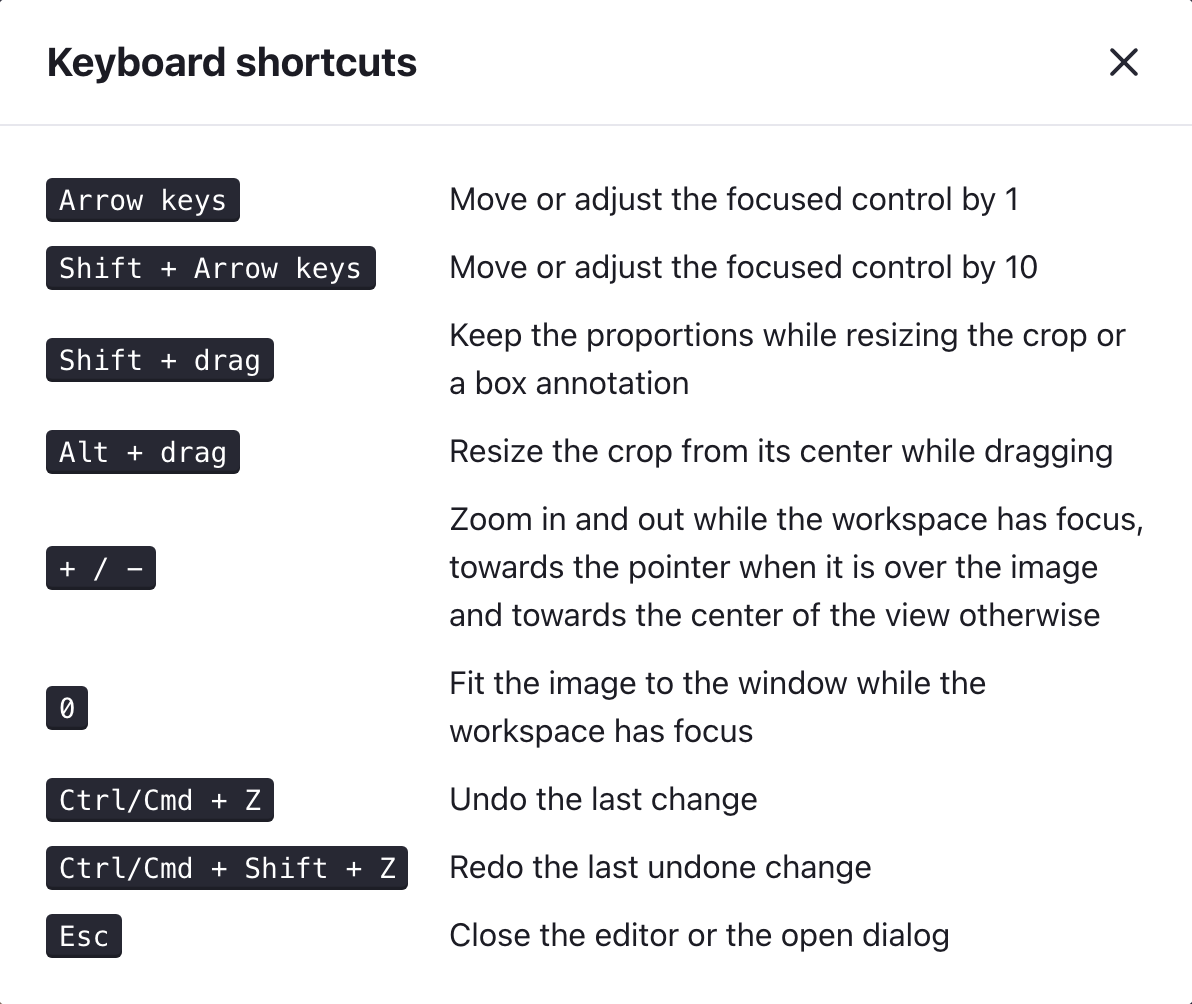
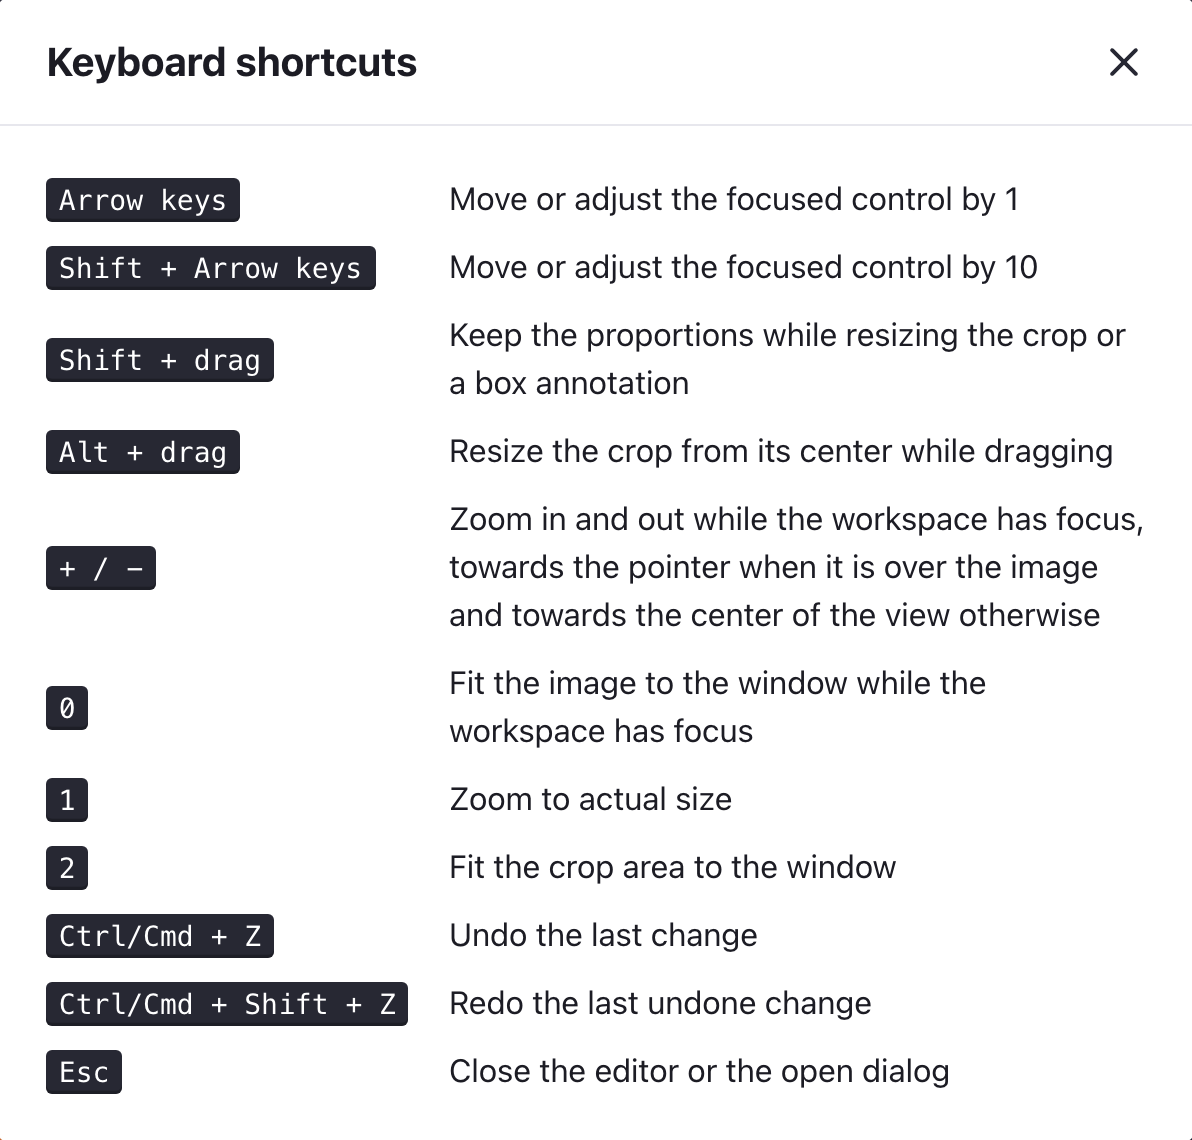
Show the recenter focus, give it a key, and let Escape leave the shortcuts

diff --git a/e2e/view-shortcuts.spec.ts b/e2e/view-shortcuts.spec.ts
@@ -1,0 +1,103 @@
+/**
+ * SPDX-FileCopyrightText: (c) 2026 Liferay, Inc. https://liferay.com
+ * SPDX-License-Identifier: LGPL-2.1-or-later OR LicenseRef-Liferay-DXP-EULA-2.0.0-2023-06
+ */
+
+import {Page, expect, test} from '@playwright/test';
+
+/**
+ * The view keys, which read as the view menu of any editor: fit, actual
+ * size, and the region being worked on. None of them touches the edit, so
+ * none of them belongs in the history.
+ */
+
+function zoomPercent(page: Page): Promise<number> {
+	return page
+		.locator('.editor-stage')
+		.evaluate((stage) =>
+			Math.round(
+				(Number(stage.getAttribute('width')) /
+					Number(stage.getAttribute('viewBox')?.split(' ')[2])) *
+					100
+			)
+		);
+}
+
+async function openEditor(page: Page) {
+	await page.goto('/');
+
+	await page.getByRole('button', {name: 'Edit sample image'}).click();
+
+	await expect(page.locator('.modal')).toHaveCSS('opacity', '1');
+}
+
+test('0 fits, 1 goes to actual size, 2 frames the crop', async ({page}) => {
+	await openEditor(page);
+
+	// A crop smaller than the image, so framing it means something.
+
+	for (const [field, value] of [
+		['width', '500'],
+		['height', '400'],
+		['x', '600'],
+		['y', '500'],
+	]) {
+		await page.locator(`#crop-${field}`).fill(value);
+		await page.locator(`#crop-${field}`).press('Enter');
+	}
+
+	const status = page.getByRole('status');
+
+	await page.locator('.editor-workspace').focus();
+
+	await page.keyboard.press('1');
+
+	expect(await zoomPercent(page)).toBe(100);
+	await expect(status).toContainText('Zoom 100%');
+
+	await page.keyboard.press('0');
+
+	expect(await zoomPercent(page)).toBeLessThan(100);
+
+	// Framing the crop zooms further in than fitting the whole image.
+
+	await page.keyboard.press('2');
+
+	await expect(status).toContainText('Crop centered in the view');
+
+	expect(await zoomPercent(page)).toBeGreaterThan(100);
+
+	// A view change is not an edit: the last undoable thing is still the
+	// crop that was typed above.
+
+	await page.getByRole('button', {name: 'Undo'}).click();
+
+	await expect(status).toContainText('Undo: crop change');
+});
+
+test('the shortcuts dialog closes with Escape', async ({page}) => {
+	await openEditor(page);
+
+	const trigger = page.getByRole('button', {name: 'Keyboard shortcuts'});
+
+	await trigger.click();
+
+	await expect(page.getByRole('dialog')).toHaveCount(2);
+
+	// Settled, not mid-fade: Clay decides which dialog Escape closes from
+	// its own stack, and the stack is only right once the second modal has
+	// finished arriving.
+
+	await expect(page.locator('.modal').last()).toHaveCSS('opacity', '1');
+
+	// The dialog shields the editor behind it from Esc and the undo keys,
+	// which is exactly why it has to answer this one itself.
+
+	await page.keyboard.press('Escape');
+
+	await expect(page.getByRole('dialog')).toHaveCount(1);
+
+	// And the editor is still there, with focus back on the trigger.
+
+	await expect(trigger).toBeFocused();
+});

diff --git a/src/components/ShortcutsDialog.tsx b/src/components/ShortcutsDialog.tsx
@@ -15,6 +15,8 @@ const SHORTCUTS: Array<{descriptionKey: string; keys: string}> = [
 	{descriptionKey: 'shortcut-alt-drag', keys: 'Alt + drag'},
 	{descriptionKey: 'shortcut-zoom', keys: '+ / -'},
 	{descriptionKey: 'shortcut-zoom-fit', keys: '0'},
+	{descriptionKey: 'shortcut-zoom-actual', keys: '1'},
+	{descriptionKey: 'shortcut-center-crop', keys: '2'},
 	{descriptionKey: 'shortcut-undo', keys: 'Ctrl/Cmd + Z'},
 	{descriptionKey: 'shortcut-redo', keys: 'Ctrl/Cmd + Shift + Z'},
 	{descriptionKey: 'shortcut-escape', keys: 'Esc'},
@@ -34,7 +36,21 @@ export function ShortcutsDialog({onOpenChange, open}: Props) {
 
 	return (
 		<ClayModal observer={observer}>
-			<div onKeyDown={(event: React.KeyboardEvent) => event.stopPropagation()}>
+			{/*
+			  * The wrapper keeps the editor's shortcuts, undo above all,
+			  * from reaching the editor behind this dialog. React's
+			  * stopPropagation also stops the native event, so Escape is
+			  * let through on purpose: Clay's own modal hook closes
+			  * whichever dialog is on top of its stack, which is this one,
+			  * and leaves the editor alone.
+			  */}
+			<div
+				onKeyDown={(event: React.KeyboardEvent) => {
+					if (event.key !== 'Escape') {
+						event.stopPropagation();
+					}
+				}}
+			>
 				<ClayModal.Header
 					closeButtonAriaLabel={t('close')}
 					withTitle

diff --git a/src/components/Workspace.tsx b/src/components/Workspace.tsx
@@ -25,6 +25,7 @@ interface Props {
 	onWorkspacePointerMove?: (event: React.PointerEvent) => void;
 	onWorkspaceScroll: () => void;
 	onZoom: (direction: -1 | 1) => void;
+	onZoomActual: () => void;
 	onZoomFit: () => void;
 	selectedOverlayId: string | null;
 	showCrop: boolean;
@@ -49,6 +50,7 @@ export function Workspace({
 	onWorkspacePointerMove,
 	onWorkspaceScroll,
 	onZoom,
+	onZoomActual,
 	onZoomFit,
 	selectedOverlayId,
 	showCrop,
@@ -72,6 +74,18 @@ export function Workspace({
 		else if (event.key === '0') {
 			event.preventDefault();
 			onZoomFit();
+		}
+
+		// The numbers read as the view menu of any editor: fit, actual
+		// size, and then the region being worked on.
+
+		else if (event.key === '1') {
+			event.preventDefault();
+			onZoomActual();
+		}
+		else if (event.key === '2') {
+			event.preventDefault();
+			onCenterCrop();
 		}
 	};
 

diff --git a/src/i18n/en.ts b/src/i18n/en.ts
@@ -184,6 +184,7 @@ export default {
 	shadows: 'Shadows',
 	'shortcut-alt-drag': 'Resize the crop from its center while dragging',
 	'shortcut-arrows': 'Move or adjust the focused control by 1',
+	'shortcut-center-crop': 'Fit the crop area to the window',
 	'shortcut-escape': 'Close the editor or the open dialog',
 	'shortcut-redo': 'Redo the last undone change',
 	'shortcut-shift-arrows': 'Move or adjust the focused control by 10',
@@ -192,6 +193,7 @@ export default {
 	'shortcut-undo': 'Undo the last change',
 	'shortcut-zoom':
 		'Zoom in and out while the workspace has focus, towards the pointer when it is over the image and towards the center of the view otherwise',
+	'shortcut-zoom-actual': 'Zoom to actual size',
 	'shortcut-zoom-fit':
 		'Fit the image to the window while the workspace has focus',
 	size: 'Size',

diff --git a/src/components/CropMarquee.tsx b/src/components/CropMarquee.tsx
@@ -524,6 +524,26 @@ export function CropMarquee({
 						x={crop.x + crop.width / 2 - 9 / zoom}
 						y={crop.y + crop.height / 2 - 9 / zoom}
 					/>
+
+					{/*
+					  * The same ring as every other control on the stage.
+					  * A CSS stroke here would be measured in image units
+					  * and thin out with the zoom: at 55% the old 3px ring
+					  * drew at 1.65px, which is what made a focused
+					  * control look unfocused.
+					  */}
+					{recenterFocused && (
+						<FocusRing
+							bounds={{
+								height: 32 / zoom,
+								width: 32 / zoom,
+								x: crop.x + crop.width / 2 - 16 / zoom,
+								y: crop.y + crop.height / 2 - 16 / zoom,
+							}}
+							shape="circle"
+							zoom={zoom}
+						/>
+					)}
 					</g>
 				)}
 

diff --git a/src/components/Annotations.a11y.test.tsx b/src/components/Annotations.a11y.test.tsx
@@ -52,6 +52,7 @@ function AnnotationHarness() {
 				onSelectOverlay={setSelectedId}
 				onWorkspaceScroll={() => {}}
 				onZoom={() => {}}
+				onZoomActual={() => {}}
 				onZoomFit={() => {}}
 				selectedOverlayId={selectedId}
 				showCrop
@@ -115,6 +116,7 @@ function TextStageHarness() {
 				onSelectOverlay={setSelectedId}
 				onWorkspaceScroll={() => {}}
 				onZoom={() => {}}
+				onZoomActual={() => {}}
 				onZoomFit={() => {}}
 				selectedOverlayId={selectedId}
 				showCrop
@@ -157,6 +159,7 @@ function CroppedHarness() {
 				onSelectOverlay={setSelectedId}
 				onWorkspaceScroll={() => {}}
 				onZoom={() => {}}
+				onZoomActual={() => {}}
 				onZoomFit={() => {}}
 				selectedOverlayId={selectedId}
 				showCrop

diff --git a/src/components/EditorModal.tsx b/src/components/EditorModal.tsx
@@ -309,6 +309,18 @@ export default function EditorModal({config, image, onClose}: Props) {
 		announce(t('zoom-level', Math.round(next * 100)));
 	};
 
+	/**
+	 * Actual size, the way every editor spells it: 100%, no fitting.
+	 */
+	const zoomToActual = () => {
+		autoFitRef.current = false;
+
+		setCropFramed(false);
+		setZoom(1);
+
+		announce(t('zoom-level', 100));
+	};
+
 	const zoomToFit = () => {
 		autoFitRef.current = true;
 
@@ -512,6 +524,7 @@ export default function EditorModal({config, image, onClose}: Props) {
 								}
 							}}
 							onZoom={zoomBy}
+							onZoomActual={zoomToActual}
 							onZoomFit={zoomToFit}
 							selectedOverlayId={selectedOverlayId}
 							showCrop={enabled.crop.enabled}

diff --git a/website/index.html b/website/index.html
@@ -1190,9 +1190,9 @@
 							class="window"
 							src="screenshots/shortcuts.png"
 									width="1192"
-									height="1004"
+									height="1140"
 									style="margin: 0 auto; max-width: min(100%, 596px)"
-							alt="The editor's own keyboard shortcuts dialog, listing the arrow keys, Shift and Alt modifiers, zoom keys, undo, redo and Escape."
+							alt="The editor's own keyboard shortcuts dialog, listing the arrow keys, Shift and Alt modifiers, the zoom keys with 0 to fit, 1 for actual size and 2 for the crop area, undo, redo and Escape."
 						/>
 						<figcaption style="text-align: center">
 							The editor carries the same list itself, one keystroke away.

diff --git a/src/components/Workspace.a11y.test.tsx b/src/components/Workspace.a11y.test.tsx
@@ -54,6 +54,7 @@ function EditorHarness() {
 				onZoom={(direction) =>
 					setZoom((current) => current + direction * 0.25)
 				}
+				onZoomActual={() => {}}
 				onZoomFit={() => {}}
 				selectedOverlayId={null}
 				showCrop

diff --git a/src/styles.css b/src/styles.css
@@ -399,11 +399,6 @@
 	pointer-events: none;
 }
 
-.crop-recenter-focused .crop-recenter-disc {
-	stroke: var(--editor-accent);
-	stroke-width: 3px;
-}
-
 .crop-handle-visual {
 	fill: #fff;
 	stroke: var(--editor-accent);

diff --git a/FINDINGS.md b/FINDINGS.md
@@ -80,6 +80,8 @@ There is one place where the canvas model has a genuine edge today, and it is ou
 19. **A frame drawn into geometry is a frame that lies.** The obvious implementation of a frame is a rectangle in image coordinates. It survives until the next crop, at which point the border is somewhere in the middle of the picture. Storing the frame as intent instead (kind, colour, and two percentages of the crop's shorter side) and drawing it from the crop rectangle at render time means the frame is never stale, and the thumbnail, the stage and the export agree by construction. The same reasoning made its stacking order a user decision rather than a default: a mat that hides the caption someone wrote along the bottom edge is a legitimate outcome, and so is a caption printed on the mat.
 20. **`hidden` is an HTML property, not an SVG one.** The colour-scheme switch swaps two inline icons by setting `element.hidden`, which works on any HTML element and silently does nothing on an `<svg>`: `hidden` is defined on `HTMLElement`, so the assignment lands on a JavaScript field and the attribute is never written. Both icons stayed on screen, and the DOM even reported `hidden: true` for the one that was still painted, because the expando shadowed the reflection. Write the attribute (`setAttribute`/`removeAttribute`) for anything inside an SVG, and remember that a class rule like `.lexicon-icon {display: inline-block}` also outranks the browser's own `[hidden]` rule.
 21. **The colour control is the one place Clay is not used, and the reason is in Clay's source.** Every other control here is a Clay component; colours are a native `input type="color"`. `clay-color-picker` renders its saturation and brightness map (`GradientSelector.tsx`) as a `div` driven by `onPointerDown` plus window `pointermove` listeners, and the handle inside it is a `button` with no accessible name, no `role="slider"`, no `aria-value*` and no key handling anywhere in the package. The palette splotches are real buttons with titles, and there are numeric R, G and B inputs, so part of the widget is operable; the custom colour map is not, and that is the part that makes it a colour picker. A native colour input, by contrast, is a labelled form control that every screen reader announces, that opens the operating system's own picker (keyboard operable, with fields rather than only a drag), and that therefore satisfies 2.1.1, 2.5.7 and 4.1.2 without anything on our side. The cost is real and worth naming: no Lexicon appearance, no shared palette, no alpha. The right resolution is upstream rather than local, and it is small: give the map handle a name, a slider role, values and arrow keys, at which point this editor should switch to `ClayColorPicker` and gain the palette for free.
+22. **A focus ring measured in image units is a focus ring that disappears.** The recenter control drew its own ring through CSS (`stroke-width: 3px` on an SVG circle), which is 3 units of the stage's coordinate system rather than 3 pixels of the screen: at a fit zoom of 55% it rendered at 1.65px, and at smaller zooms less than that, which is why a focused control looked unfocused. Every other indicator on the stage divides its thickness by the zoom for exactly this reason, and the fix was to stop hand-rolling one and reuse the same `FocusRing`.
+23. **Clay's modal decides which dialog Escape closes, and React's stopPropagation hides the key from it.** `useModal` closes a dialog only when it is the last entry of Clay's internal stack, which is the right rule for nested dialogs. The shortcuts dialog wraps its content in a `keyDown` handler that stops propagation, so the editor behind it never sees undo or Escape, and in React 17 and later a synthetic `stopPropagation` also stops the native event: Clay's document-level listener never ran, and Escape did nothing at all. Letting that one key through, and keeping the shield for the rest, hands the decision back to the component that already gets it right. Two adjacent traps: stopping the native event *immediately* instead closes both dialogs at once, and pressing Escape while the second dialog is still fading in closes the wrong one, because the stack is only settled once it has arrived.
 
 ## Open items
 

diff --git a/README.md b/README.md
@@ -17,7 +17,7 @@ The editor is **parametric and declarative**:
 - Focus on the stage (crop area, handles, annotations) is a **Clay-style double ring** (white inner + accent outer) drawn as real SVG geometry, because browsers do not reliably paint CSS outlines on SVG children.
 - **Flipping** mirrors the whole composition horizontally, and it carries the crop and every annotation with it: a redaction that stayed put while the photograph mirrored underneath would uncover exactly what it was hiding. It is one entry in the history, and flipping twice returns to the original.
 - **Straightening** is a free angle in degrees on top of the quarter turns: the image is scaled by exactly the factor needed to keep covering the frame, so no empty corners appear and the crop and annotation coordinate space is untouched.
-- While a crop gesture runs, a **thirds grid** appears as a composition aid; a **recenter control** in the middle of the crop zooms and scrolls until that region fills the view (a view operation, so it never enters the edit history), and hides itself once the view already frames the crop.
+- While a crop gesture runs, a **thirds grid** appears as a composition aid; a **recenter control** in the middle of the crop zooms and scrolls until that region fills the view (a view operation, so it never enters the edit history), and hides itself once the view already frames the crop. It answers to `2`, next to `0` for fitting the whole image and `1` for actual size, and when it takes focus it wears the same ring as every other control on the stage.
 - **Redactions** pixelate an area for real: tiny downsampled copies of the image (four block sizes, small by default) are prepared once at load time and revealed through a clip, scaled back up with nearest-neighbor, and passed through the same color pipeline as the image so the mosaic matches what is on screen. They behave exactly like a rectangle otherwise, and the mosaic stays locked to the photo even when the block is rotated.
 - **Small annotations keep a full-size target**: whatever an annotation is painted at, the area that can be clicked or reached never falls below 24 by 24 screen pixels, measured in screen space so it holds at any zoom.
 - **Rectangles and circles take an optional border**, off until a width is set, with its own colour.
@@ -122,6 +122,8 @@ The Playwright journeys are **keyboard-only by design**: no mouse events are syn
 | `Shift + Arrow keys` on a slider | Step adjustments and the straighten angle by 10 |
 | `Enter` | Commit a numeric field; on a focused annotation, jump to its property editor; on a layer row, jump to that element on the image |
 | `0` | Fit the image to the window while the workspace has focus |
+| `1` | Zoom to actual size, 100%, while the workspace has focus |
+| `2` | Fit the crop area to the window, the recenter control's shortcut |
 | `Shift + drag` | Keep the proportions while resizing the crop or a box annotation (free by default) |
 | `Alt + drag` | Resize the crop from its center |
 | `Esc` | Close the editor or the open dialog |
